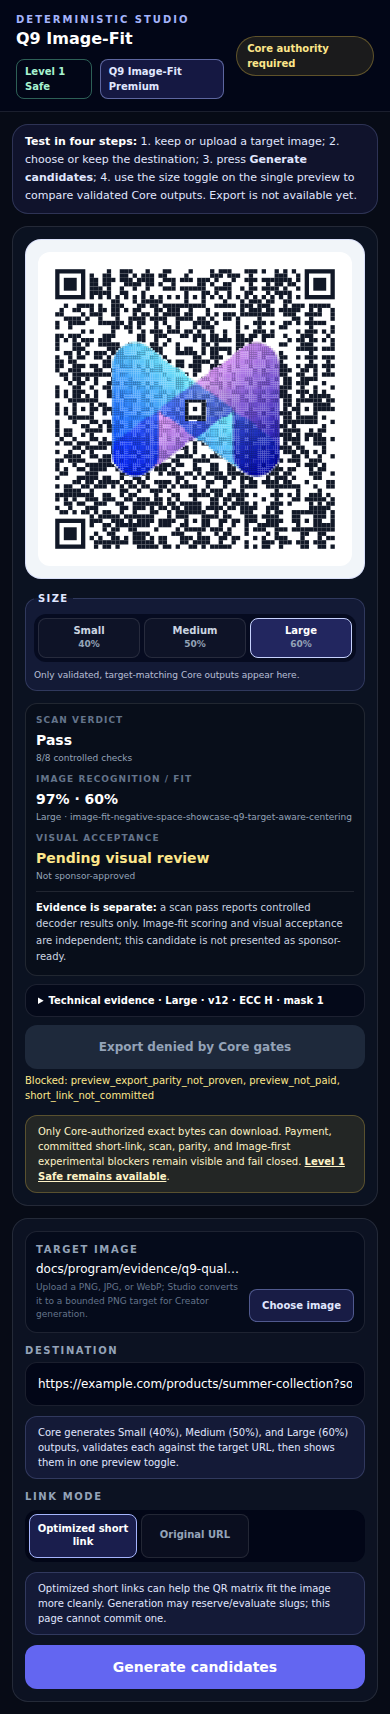
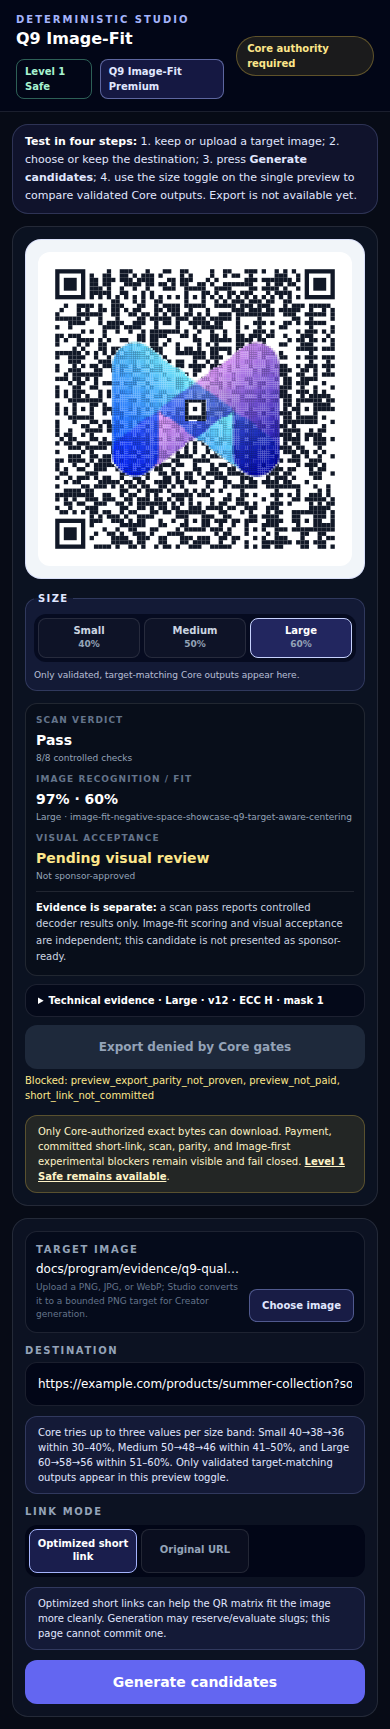
Add adaptive Q9 size attempt ladders

Changed region(s): [[0.0615, 0.1546, 0.9231, 0.9895], [0.0615, 0.0, 0.9231, 0.1546], [0.1846, 0.0, 0.2769, 0.0309]]

diff --git a/packages/artistic-qr/src/image-fit.ts b/packages/artistic-qr/src/image-fit.ts
@@ -143,6 +143,11 @@ export interface ImageFitOptimizerOptions {
 const MODE_ORDER: readonly ImageFitMode[] = ['readable', 'balanced', 'image_first'];
 const LOGO_SIZE_ORDER: readonly ImageFitLogoSize[] = ['small', 'medium', 'large'];
 const LOGO_SIZE_FRACTION: Record<ImageFitLogoSize, number> = { small: 0.40, medium: 0.50, large: 0.60 };
+const LOGO_SIZE_ATTEMPTS: Record<ImageFitLogoSize, readonly number[]> = {
+  small: [0.40, 0.38, 0.36],
+  medium: [0.50, 0.48, 0.46],
+  large: [0.60, 0.58, 0.56],
+};
 const MAX_VISUAL_CHALLENGERS_PER_MODE = 2;
 const DISCLAIMER = 'Controlled decoder checks are not a universal scan guarantee. No physical-device or print scan was performed.';
 
@@ -161,12 +166,12 @@ export function optimizeImageFitQr(
   const candidates: ImageFitCandidateV1[] = [];
   const sizeCandidateFlow = visualPolicy === 'q9_negative_space_showcase' && Boolean(input.target_rgb);
   const candidateSpecs = sizeCandidateFlow
-    ? LOGO_SIZE_ORDER.slice(0, Math.min(input.request.constraints.max_candidates, LOGO_SIZE_ORDER.length))
-      .map((logoSize) => ({ mode: 'balanced' as const, logoSize }))
+    ? LOGO_SIZE_ORDER.flatMap((logoSize) => LOGO_SIZE_ATTEMPTS[logoSize].map((logoSizeFraction) => ({ mode: 'balanced' as const, logoSize, logoSizeFraction })))
     : MODE_ORDER.slice(0, Math.min(input.request.constraints.max_candidates, MODE_ORDER.length))
-      .map((mode) => ({ mode, logoSize: input.request.user_controls.logo_size ?? 'medium' }));
+      .map((mode) => ({ mode, logoSize: input.request.user_controls.logo_size ?? 'medium', logoSizeFraction: LOGO_SIZE_FRACTION[input.request.user_controls.logo_size ?? 'medium'] }));
 
-  for (const { mode, logoSize } of candidateSpecs) {
+  for (const { mode, logoSize, logoSizeFraction } of candidateSpecs) {
+    if (sizeCandidateFlow && candidates.some((candidate) => candidate.image_treatment.logo_size === logoSize)) continue;
     type Evaluated = {
       settings: QrSearchSettings;
       matrix: QrMatrix;
@@ -199,9 +204,9 @@ export function optimizeImageFitQr(
       const useLegacy = options._legacyNaiveRender === true;
       const preprocessed = preprocessTarget(input, matrix, mode, compositionPolicy);
       const rendered = q8Island && input.target_rgb
-        ? renderProtectedVisualIslandSvg(matrix, input.target_rgb, mode, visualPolicy === 'q8_negative_space_island' || visualPolicy === 'q9_negative_space_showcase', visualPolicy, input.request.target_image.complexity, logoSize)
+        ? renderProtectedVisualIslandSvg(matrix, input.target_rgb, mode, visualPolicy === 'q8_negative_space_island' || visualPolicy === 'q9_negative_space_showcase', visualPolicy, input.request.target_image.complexity, logoSize, logoSizeFraction)
         : renderImageFitSvg(matrix, preprocessed.mask, mode, { useLegacy, edgeScore: preprocessed.edgeScore, componentCount: preprocessed.componentCount });
-      const artifact = makeArtifact(sizeCandidateFlow ? `${logoSize}-${mode}` : mode, rendered.svg);
+      const artifact = makeArtifact(sizeCandidateFlow ? `${logoSize}-${Math.round(logoSizeFraction * 100)}-${mode}` : mode, rendered.svg);
       renderedSettings.push({ settings, matrix, rendered, artifact, preference });
       if (selectionPolicy === 'q3_first_pass') {
         const validation = validate(validationCandidate(artifact, rendered.width, settings, mode), input.encoded_payload);
@@ -243,7 +248,7 @@ export function optimizeImageFitQr(
     }
     if (!selected) continue;
     const { settings, matrix, rendered, artifact, validation } = selected;
-    if (sizeCandidateFlow && !validation.pass) continue;
+    if (sizeCandidateFlow && (!validation.pass || rendered.protectedViolations.length > 0)) continue;
     const scanEvidence = mapScanEvidence(validation);
     const candidateId = stableId(input, mode, settings, artifact.sha256);
     artifact.uri = `artifact://image-fit/${candidateId}.svg`;
@@ -267,7 +272,7 @@ export function optimizeImageFitQr(
       image_treatment: {
         kind: treatmentForMode(mode),
         logo_size: sizeCandidateFlow ? logoSize : input.request.user_controls.logo_size ?? 'medium',
-        logo_size_fraction: sizeCandidateFlow ? LOGO_SIZE_FRACTION[logoSize] : LOGO_SIZE_FRACTION[input.request.user_controls.logo_size ?? 'medium'],
+        logo_size_fraction: logoSizeFraction,
         modified_modules: rendered.modifiedModules,
         modified_fraction: round(rendered.modifiedModules / (matrix.size * matrix.size), 6),
         luminance_policy_version: q8Island && input.target_rgb
@@ -831,6 +836,7 @@ function renderProtectedVisualIslandSvg(
   visualPolicy: ImageFitOptimizerOptions['_visualPolicy'] = 'q8_negative_space_island',
   targetComplexity: ImageFitQrRequestV1['target_image']['complexity'] = 'medium_logo',
   logoSize: ImageFitLogoSize = 'medium',
+  logoSizeFraction = LOGO_SIZE_FRACTION[logoSize],
 ): {
   svg: string; width: number; modifiedModules: number; recognitionScore: number;
   protectedConflictScore: number; protectedViolations: string[];
@@ -910,13 +916,8 @@ function renderProtectedVisualIslandSvg(
 
   const inner = matrix.size * moduleSize;
   const q9Showcase = visualPolicy === 'q9_negative_space_showcase';
-  const q9SizedFraction = (size: ImageFitLogoSize): number => {
-    if (mode === 'readable') return size === 'small' ? 0.30 : size === 'large' ? 0.40 : 0.35;
-    if (mode === 'balanced') return LOGO_SIZE_FRACTION[size];
-    return size === 'small' ? 0.46 : size === 'large' ? 0.62 : 0.54;
-  };
   const fraction = q9Showcase
-    ? q9SizedFraction(logoSize)
+    ? logoSizeFraction
     : mode === 'readable' ? 0.32 : mode === 'balanced' ? 0.42 : 0.52;
   const drawWidth = Math.round(inner * fraction);
   const drawHeight = Math.max(1, Math.round(drawWidth * cropHeight / cropWidth));

diff --git a/apps/web/src/components/ImageFitQrConcept.tsx b/apps/web/src/components/ImageFitQrConcept.tsx
@@ -156,7 +156,7 @@ export default function ImageFitQrConcept() {
     try {
       const request = buildImageFitRequest({ destination, treatment, strength, detail, linkMode, targetImage })
       const response = await imageFitGenerationClient.generate(request, controller.signal)
-      const qualifying = response.candidates.filter((candidate) => candidate.status === 'validated' && candidate.scan_evidence.verdict === 'pass')
+      const qualifying = response.candidates.filter((candidate) => candidate.status === 'validated' && candidate.scan_evidence.verdict === 'pass' && candidate.protected_regions.violations.length === 0)
       if (qualifying.length === 0) {
         setCandidates([])
         setSelectedId(undefined)
@@ -208,7 +208,7 @@ export default function ImageFitQrConcept() {
         <div className="grid grid-cols-[1fr_auto] items-end gap-2 rounded-xl border border-white/10 bg-slate-950/60 p-2.5"><label className="min-w-0"><span className="mb-1 block text-[10px] font-black uppercase tracking-[.16em] text-slate-400">Target image</span><span className="block truncate text-xs">{targetImage.image_ref}</span><span className="mt-1 block text-[9px] text-slate-500">Upload a PNG, JPG, or WebP; Studio converts it to a bounded PNG target for Creator generation.</span></label><label className={`rounded-lg border px-3 py-2 text-center text-[10px] font-bold focus-within:ring-2 focus-within:ring-indigo-300 ${uploadState === 'uploading' ? 'cursor-wait border-white/10 bg-slate-800 text-slate-400' : 'cursor-pointer border-indigo-300/40 bg-indigo-500/20 text-indigo-100'}`}><span>{uploadState === 'uploading' ? 'Uploading…' : 'Choose image'}</span><input aria-label="Choose target image" type="file" accept="image/png,image/jpeg,image/webp" disabled={uploadState === 'uploading'} onChange={(event) => { const file = event.currentTarget.files?.[0]; if (file) void uploadTarget(file); event.currentTarget.value = '' }} className="sr-only" /></label></div>
         {uploadError && <div role="alert" className="rounded-xl border border-rose-300/30 bg-rose-400/10 px-3 py-2 text-xs text-rose-100"><strong>Upload failed.</strong> {uploadError}</div>}
         <label><span className="mb-1 block text-[10px] font-black uppercase tracking-[.16em] text-slate-400">Destination</span><input aria-label="Level 2 destination URL" value={destination} aria-invalid={!destinationValid} onChange={(event) => change(setDestination, event.target.value)} className="h-11 w-full rounded-xl border border-white/10 bg-slate-950 px-3 text-xs outline-none focus:ring-2 focus:ring-indigo-300" /></label>
-        <p className="rounded-xl border border-indigo-300/20 bg-indigo-500/10 px-3 py-2 text-[10px] text-indigo-100">Core generates Small (40%), Medium (50%), and Large (60%) outputs, validates each against the target URL, then shows them in one preview toggle.</p>
+        <p className="rounded-xl border border-indigo-300/20 bg-indigo-500/10 px-3 py-2 text-[10px] text-indigo-100">Core tries up to three values per size band: Small 40→38→36 within 30–40%, Medium 50→48→46 within 41–50%, and Large 60→58→56 within 51–60%. Only validated target-matching outputs appear in this preview toggle.</p>
         <ChoiceRow label="Link mode" value={linkMode} values={IMAGE_FIT_CONTRACT.controls.linkModes} onChange={(value) => change(setLinkMode, value)} />
         <p className={`rounded-xl border px-3 py-2 text-[10px] ${linkMode === 'optimized_short_link' ? 'border-indigo-300/20 bg-indigo-500/10 text-indigo-100' : 'border-amber-300/30 bg-amber-300/10 text-amber-100'}`}>{linkMode === 'optimized_short_link' ? 'Optimized short links can help the QR matrix fit the image more cleanly. Generation may reserve/evaluate slugs; this page cannot commit one.' : 'Original URLs can increase QR density and reduce image clarity.'}</p>
         <button type="button" onClick={generate} disabled={!canGenerate} className="min-h-11 rounded-xl bg-indigo-500 px-4 text-sm font-black text-white disabled:cursor-not-allowed disabled:bg-slate-700 disabled:text-slate-400">{runState === 'loading' ? 'Generating candidates…' : 'Generate candidates'}</button>

diff --git a/packages/artistic-qr/src/image-fit.test.ts b/packages/artistic-qr/src/image-fit.test.ts
@@ -484,6 +484,29 @@ describe('Q8 deterministic protected visual island', () => {
     expect(result.response.candidates.map((candidate) => candidate.protected_regions.violations)).toEqual([[], [], []]);
   }, 30_000);
 
+
+  it('falls back within a size band and drops attempts that do not validate', () => {
+    const maxColorX = (svg: string): number => Math.max(...[...svg.matchAll(/<rect x="([0-9.]+)"[^>]+fill="rgb\(/g)].map((match) => Number(match[1])));
+    const result = optimizeImageFitQr(rgbLogoInput(), {
+      _visualPolicy: 'q9_negative_space_showcase',
+      validationRunner: (candidate, expectedPayload) => {
+        const validation = runValidation(candidate, expectedPayload);
+        const tooLarge = maxColorX(candidate.rendered.data) > 340;
+        if (!tooLarge) return validation;
+        return {
+          ...validation,
+          pass: false,
+          tests: validation.tests.map((test) => ({ ...test, pass: false, details: { ...test.details, forced_failure: 'oversized-large-attempt' } })),
+          overallConfidence: 'failed',
+        } satisfies ScanValidationResult;
+      },
+    });
+    expect(result.response.candidates.map((candidate) => candidate.image_treatment.logo_size)).toEqual(['small', 'medium', 'large']);
+    expect(result.response.candidates.map((candidate) => candidate.image_treatment.logo_size_fraction)).toEqual([0.4, 0.5, 0.58]);
+    expect(result.response.candidates.every((candidate) => candidate.scan_evidence.verdict === 'pass')).toBe(true);
+    expect(result.response.candidates.map((candidate) => candidate.protected_regions.violations)).toEqual([[], [], []]);
+  }, 30_000);
+
   it('rejects an RGB plane that is not exactly bound to the luma plane', () => {
     const malformed = rgbLogoInput();
     malformed.target_rgb = { ...malformed.target_rgb!, values: malformed.target_rgb!.values.slice(3) };

diff --git a/docs/program/reports/qr-product-q9-size-candidates.md b/docs/program/reports/qr-product-q9-size-candidates.md
@@ -6,15 +6,15 @@ Status: **accepted for merge candidate**
 
 Logo size is no longer a pre-generation customer setting. Q9 Image-Fit now outputs size candidates:
 
-- Small = 40% of QR field width
-- Medium = 50% of QR field width, selected by default when it qualifies
-- Large = 60% of QR field width
+- Small = 30–40% of QR field width; Core tries 40%, then 38%, then 36%.
+- Medium = 41–50% of QR field width; Core tries 50%, then 48%, then 46%.
+- Large = 51–60% of QR field width; Core tries 60%, then 58%, then 56%.
 
 Each size is generated as a deterministic Core candidate and must independently pass controlled decoder validation against the exact target payload. Failed size candidates are not surfaced in Studio. If no size candidate qualifies, Studio uses the existing Core-authorized Level 1 fallback path.
 
 ## UI rule
 
-Studio does **not** show a pre-generation logo-size picker. After Core produces and validates Small / Medium / Large, Studio shows one main preview and a compact size toggle. Customers switch the same preview between validated size outputs; the old three-card grid is hidden.
+Studio does **not** show a pre-generation logo-size picker. After Core produces and validates the available Small / Medium / Large category outputs, Studio shows one main preview and a compact size toggle. Customers switch the same preview between validated size outputs; the old three-card grid is hidden.
 
 ## Evidence
 
